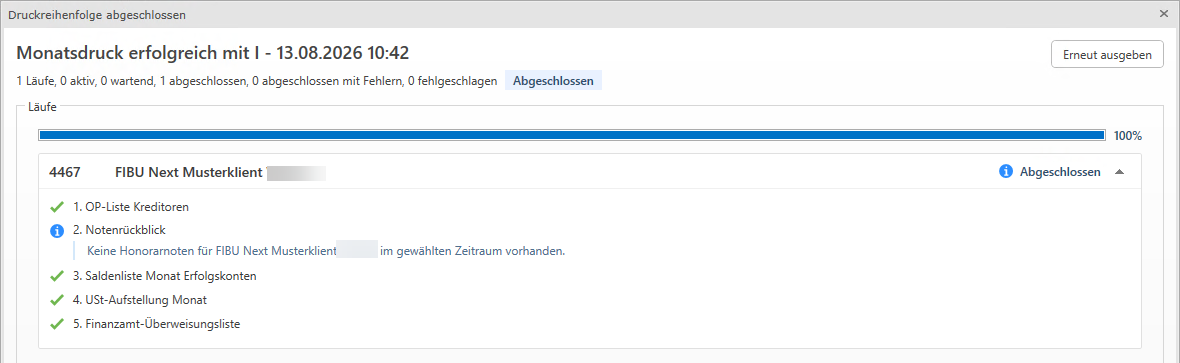
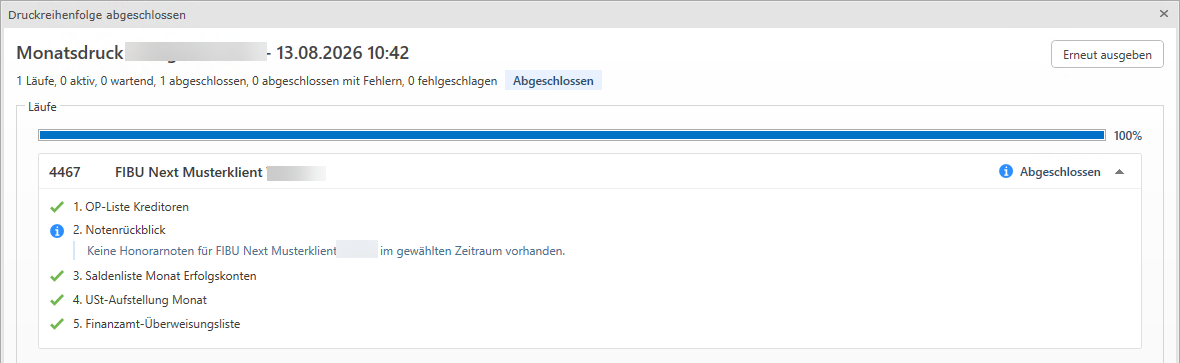
final

Changed region(s): [[0.0915, 0.0909, 0.2441, 0.1818]]

diff --git a/docs/Board/Druckreihenfolgen und Druckformatvorlagen/Druckreihenfolgen.md b/docs/Board/Druckreihenfolgen und Druckformatvorlagen/Druckreihenfolgen.md
@@ -5,7 +5,7 @@ Die Liste der angelegten Druckreihenfolgen können Sie mit den Filtern *Alle, Al
 
 ![Übersicht Druckreihenfolge](<img/Übersicht Druckreihenfolge.png>)
 
-Die verfügbaren Aktionen finden Sie im Ribbon: Im Bereich Druckreihenfolgen können Sie über *Anlegen* eine neue Druckreihenfolge erstellen sowie bestehende Druckreihenfolgen *bearbeiten, löschen oder duplizieren*. Mit *Klienten zuordnen* öffnet sich eine Liste in denen alle Ihre Klienten aufgelistet werden. Sie können mit dieser Liste die gewünschten Klienten zuordnen. 
+Die verfügbaren Aktionen finden Sie im Ribbon: Im Bereich Druckreihenfolgen können Sie über *Anlegen* eine neue Druckreihenfolge erstellen sowie bestehende Druckreihenfolgen *bearbeiten, löschen oder duplizieren*. Mit *Klienten zuordnen* öffnet sich eine Liste in der alle Ihre Klienten aufgelistet werden. Sie können mit dieser Liste die gewünschten Klienten zuordnen. 
 
 # Eine Druckreihenfolge anlegen
 Nutzen Sie die Funktion *Anlegen* im Bereich Druckformatvorlagen. Geben Sie einen aussagekräftigen Namen ein. Mit den Optionen *Allgemein* und *Persönlich* legen Sie die Verfügbarkeit fest. Über die Auswahl **Druckformatvorlage** bestimmen Sie das Layout der Ausdrucke. Mit *Standard Druckformatvorlage* verwenden gilt die in Ihrer Kanzlei hinterlegte Standardvorlage.
@@ -13,7 +13,7 @@ Nutzen Sie die Funktion *Anlegen* im Bereich Druckformatvorlagen. Geben Sie eine
 
 ## Ausdrucke hinzufügen und ordnen
 
-In der Spalte *Verfügbare Ausdrucke* finden Sie alle druckbaren Funktionen, nach Programm gruppiert (FIBU Next, BIL Next, HON Next) und darunter nach Kategorien wie Konten, Saldenlisten, OP-Liste oder KER. Über das Suchfeld *Verfügbare Ausdrucke durchsuchen* können Sie einen Ausdruck per Namen suchen.
+In der Spalte *Verfügbare Ausdrucke* finden Sie alle druckbaren Funktionen, nach Programm gruppiert (FIBU Next, HON Next) und darunter nach Kategorien wie Konten, Saldenlisten, OP-Liste oder KER. Über das Suchfeld *Verfügbare Ausdrucke durchsuchen* können Sie einen Ausdruck per Namen suchen.
 Markieren Sie den gewünschten Ausdruck und übernehmen Sie ihn mit dem Zuordnen-Pfeil ![Pfeil zum Zuordnen](<img/zuordnen Pfeil.png>) oder Drag & Drop in die Spalte Druckschritte. Jeder übernommene Ausdruck erscheint dort als eigener, nummerierter Druckschritt. Die Reihenfolge der Druckschritte ändern Sie per Drag & Drop mittels ![Verschieben-Symbol](<img/verschieben Symbol.png>).
 
 ## Druckoptionen je Druckschritt festlegen
@@ -56,17 +56,17 @@ Mit **Ausführen** erfolt der Ausdruck laut Definition in der Druckreihenfolge.
 
 Ein Fortschrittsbalken zeigt den aktuellen Gesamtfortschritt an. Je Klient wird separat angezeigt, ob die Ausdrucke für diesen gerade aktiv, wartend, abgeschlossen, abgeschlossen mit Fehlern oder fehlgeschlagen sind. Das wird außerdem  mit folgenden Symbolen gekennzeichnet:
 
-![läuft](<img/läuft.png>) - Läuft, der Vorgang wird gerade ausgeführt
-![erfolgreich](<img/erfolgreich.png>) - Erfolgreich abgeschlossen
-![abgeschlossen mit I](<img/I-Symbol.png>) - Abgeschlossen, aber mit [übersprungenen Ausdrucken]()
-![Fehler](<img/fehlerhaft.png>) - Abgeschlossen mit Fehlern
+- ![läuft](<img/läuft.png>) Läuft, der Vorgang wird gerade ausgeführt
+- ![erfolgreich](<img/erfolgreich.png>) Erfolgreich abgeschlossen
+- ![abgeschlossen mit I](<img/I-Symbol.png>) Abgeschlossen, aber mit [übersprungenen Ausdrucken]()
+- ![Fehler](<img/fehlerhaft.png>) Abgeschlossen mit Fehlern
 
-Wird ![abgeschlossen mit I](<img/I-Symbol.png>) oder ![Fehler](<img/fehlerhaft.png>) angezeigt, heißt das nicht, dass der Status für den gesamten Druck gilt. Sie können mittels ![aufklappen](<img/aufklappen.png>) die Druckreihenfolge für den betroffenen Klienten öffnen und so prüfen, welcher Ausdruck zu einem Fehler geführt hat. Zusätzlich wird der genaue Fehlertext angezeigt.
+Wird ![abgeschlossen mit I](<img/I-Symbol.png>) oder ![Fehler](<img/fehlerhaft.png>) angezeigt, heißt das nicht, dass der Status für den gesamten Druck gilt. Sie können mittels Aufklapp-Symbol ![aufklappen](<img/aufklappen.png>) neben dem Status je Klient die Druckreihenfolge für den betroffenen Klienten öffnen und so prüfen, welcher Ausdruck zu einem Fehler geführt hat. Zusätzlich wird der genaue Fehlertext angezeigt.
 
 ## übersprungene Ausdrucke
 Übersprungene Ausdrucke sind im Massenlauf der Normalfall und kein Grund zur Sorge. Ein Ausdruck wird übersprungen, wenn z.B. keine Daten vorliegen.
 
-!!! info "Beispiel
+!!! info "Beispiel"
     In der Druckreihenfolge befinden sich die Druckschritte Saldenliste, USt-Aufstellung und OP-Liste Debitoren. Sie wählen die Klienten in der Liste aus und geben den entsprechenden Zeitraum ein. Unter den Klienten befindet sich auch ein EA-Rechner, in welchem ohne Personenkonten gebucht wird. Die Saldenliste und USt-Aufstellung enthält  für den EA-Rechner Werte, weshalb diese Ausdrucke erfolgreich abgeschlossen werden. Da dieser Kliente allerdings ohne Personenkonten bucht und somit keine Werte in der OP-Liste Debitoren hat wird der Ausdruck übersprungen. Es wird in so einem Fall weder mit einem Fehler abgebrochen, noch ein leeres PDF erzeugt.
     Trotzdessen werden die nachfolgenden Druckschritte und die gesamte Druckreihenfolge für die restlichen Klienten durchgeführt.
     ![Hinweis übersprungener Ausdruck](<img/Hinweis übersprungener Ausdruck.png>)
